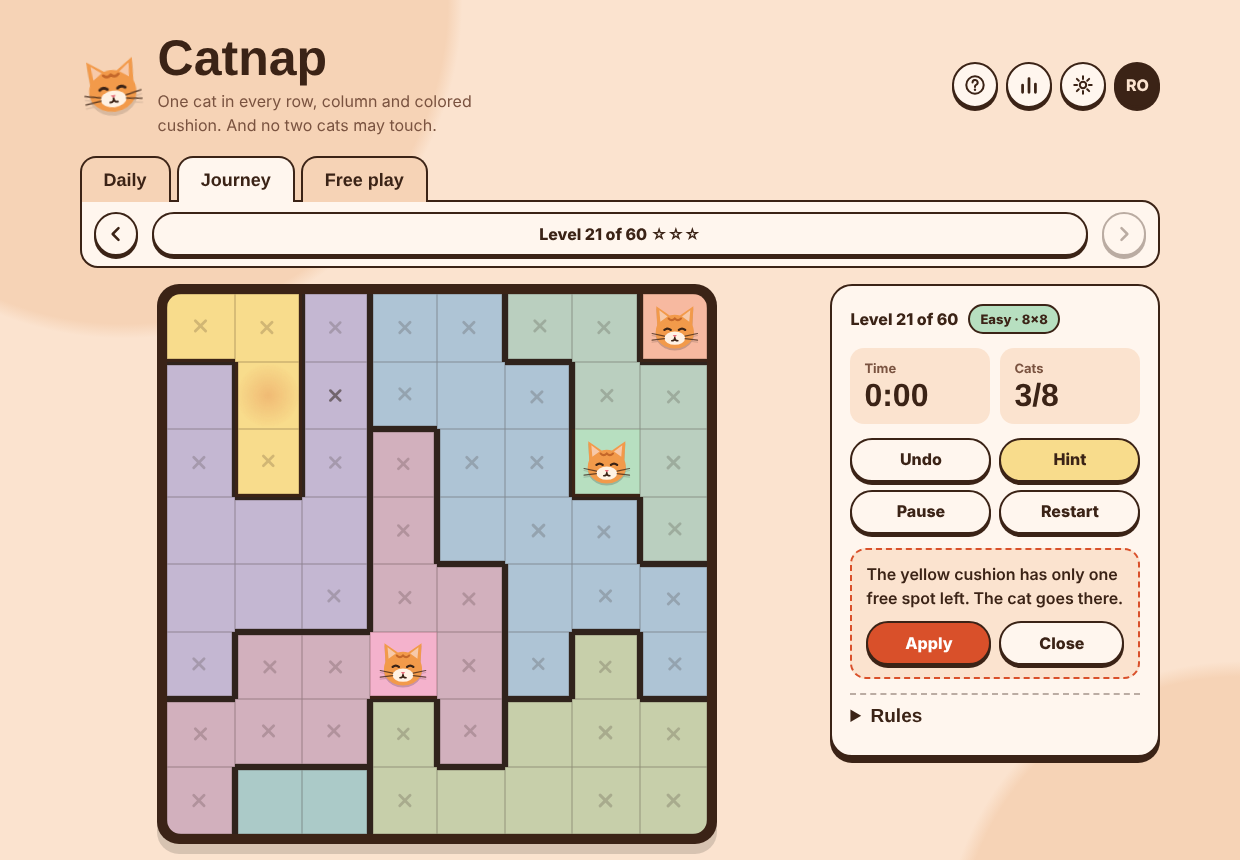
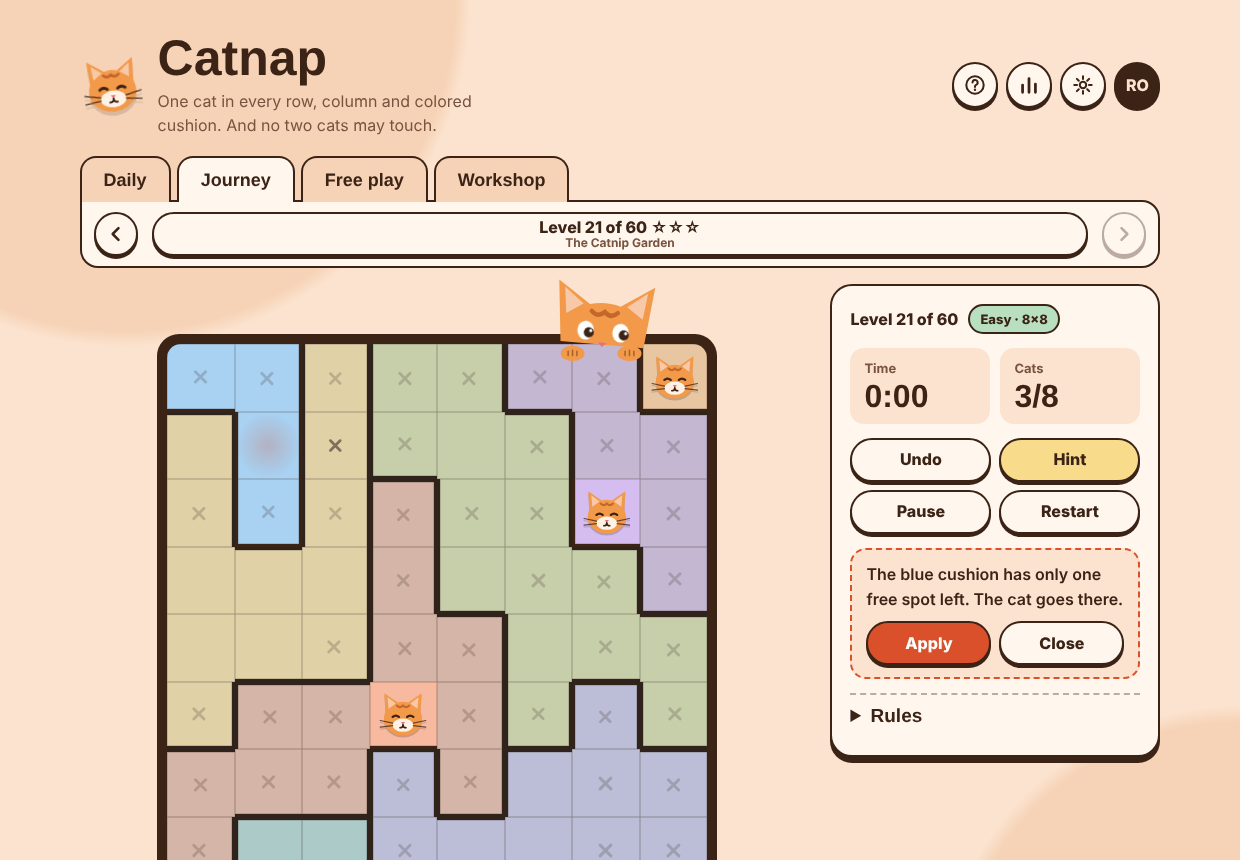
Update README and screenshot for Workshop, chapters, achievements and mascot
Claude-Session: https://claude.ai/code/session_01GYLCer5H3CPwvpc1GZsJrA

diff --git a/README.md b/README.md
@@ -22,18 +22,21 @@ Every puzzle has exactly one solution and can be solved with pure logic. You nev
 
 | Mode | What it is |
 |---|---|
-| **Daily** | One puzzle per day, the same for everyone. Easy on Monday, Expert on Sunday. Keep your streak going 🔥 |
-| **Journey** | 60 hand-ordered levels from 5×5 Easy to 10×10 Expert. Earn up to 3 stars per level. The first levels teach you as you play. |
+| **Daily** | One puzzle per day, the same for everyone. Easy on Monday, Expert on Sunday. Keep your streak going 🔥 Missed a day? Play it from the archive calendar. |
+| **Journey** | 60 levels in 6 chapters, from *The Yarn Basket* (5×5 Easy) to *Moonlit Rooftops* (10×10 Expert). Earn up to 3 stars per level. The first levels teach you as you play. |
 | **Free play** | Endless puzzles. Pick any difficulty (Easy, Medium, Hard, Expert) and board size (5×5 to 10×10). |
+| **Workshop** | Paint your own puzzle. Live checks tell you if it has exactly one solution and how hard it is. Share it as a link. |
 
 ## Features
 
 - **Explained hints**: a hint doesn't just reveal a cell. It tells you *why*, e.g. “Every free spot in the yellow cushion is on row 3, so the rest of row 3 gets ×”, and highlights the cells involved.
 - **Coach mode**: explains every next step automatically, great for learning.
+- **A mascot cat** peeks over the board: it follows your pointer, gets scared by conflicting cats, dozes off when you pause and celebrates when you win.
+- **20 achievements**, from *First nap* to *Night owl* and *Cheetah* (10×10 in under 5 minutes, no hints).
 - **8 cats to unlock** (Ginger, Tabby, Coal, Tuxedo, Calico, Siamese, Snow, Galaxy) with Journey stars and daily streaks.
 - Statistics: puzzles solved, streaks, best time for every size and difficulty.
 - Synthesized sound effects (Web Audio, no audio files), including a little meow.
-- Undo, pause, auto-× around cats, mistake highlighting, color-blind labels.
+- Undo and redo, pause, auto-× around cats, mistake highlighting, color-blind labels.
 - Shareable links for every puzzle, plus a copyable result.
 - Light and dark theme, works great on phones, **installable and playable offline** (PWA).
 
@@ -46,6 +49,7 @@ Every puzzle has exactly one solution and can be solved with pure logic. You nev
 | Several × at once | drag across cells | |
 | Move around the board | | arrow keys |
 | Undo | Undo button | `Z` / `Ctrl+Z` |
+| Redo | | `Shift+Z` / `Ctrl+Y` |
 | Hint | Hint button | `H` |
 | Pause | Pause button | `P` |
 
@@ -76,7 +80,8 @@ style.css             all styles (light + dark theme, cat skins)
 src/engine.js         seeded RNG, brute-force solver, generator
 src/logic.js          human-style logic solver, difficulty rating
 src/levels.js         the 60 Journey levels (generated)
-src/game.js           game UI, modes, hints, progress
+src/game.js           game UI, modes, hints, workshop, mascot, progress
+src/achievements.js   Journey chapters and achievements
 src/i18n.js           English + Romanian strings
 src/audio.js          synthesized sound effects
 src/worker.js         background puzzle generation
